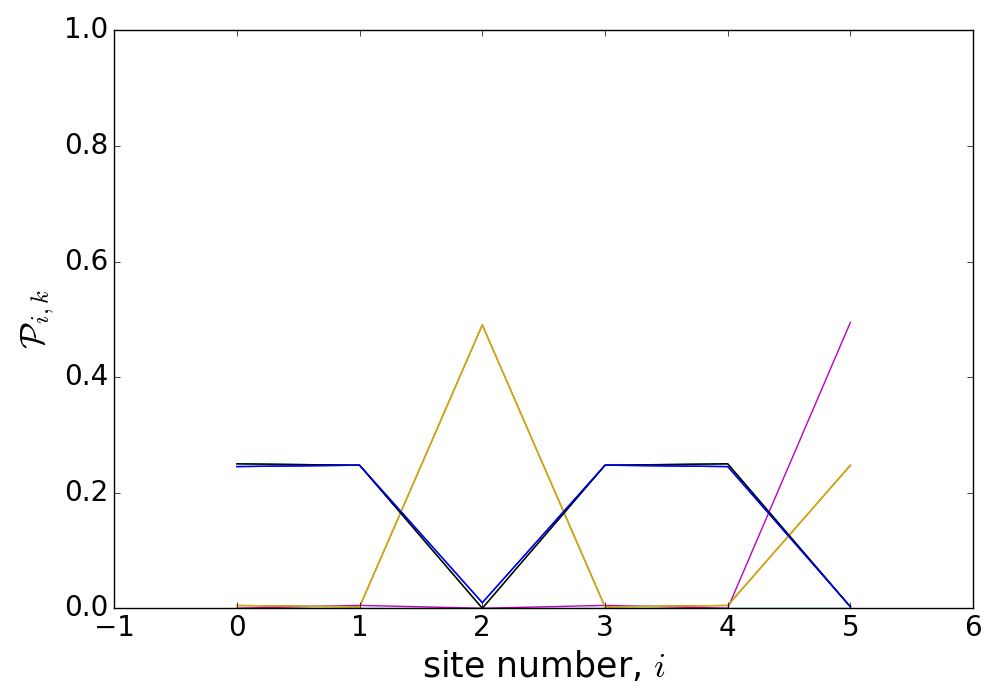
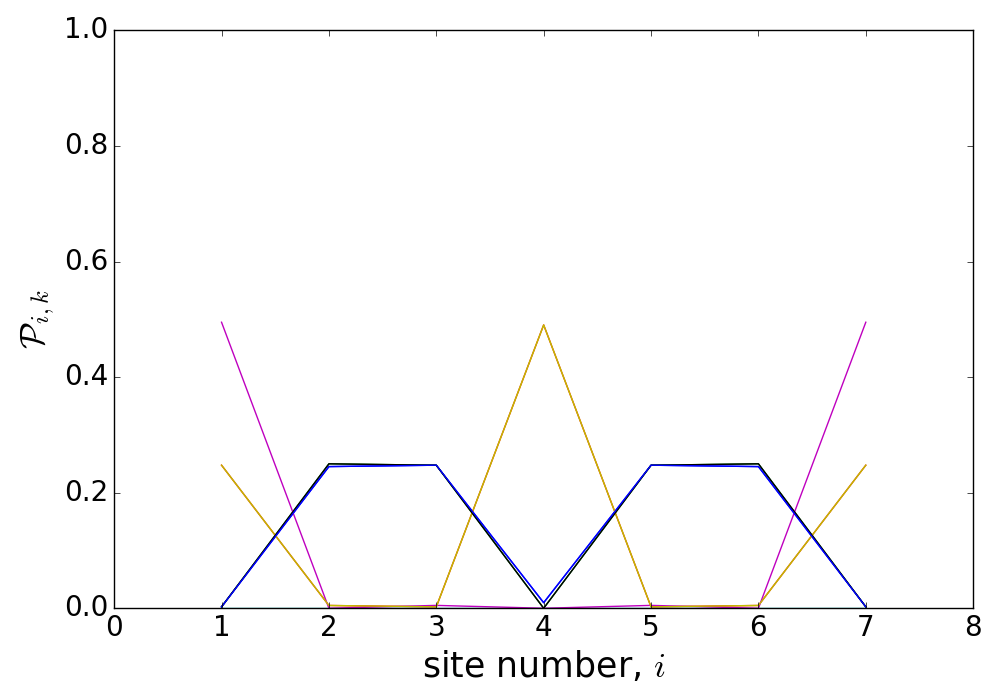
fixed # issue in numpy loadtxt

diff --git a/src/Plotting/probabilities.py b/src/Plotting/probabilities.py
@@ -5,7 +5,7 @@ import numpy as np
 from pylab import *
 
 #READ DATA FROM FILE
-eigen=np.loadtxt('probabilities.data',skiprows=1+2)
+eigen=np.loadtxt('probabilities.data',skiprows=2,comments='#')
 
 #SET SIZE FIGURE
 fig = plt.figure(figsize=(10,7))
@@ -13,7 +13,7 @@ fig = plt.figure(figsize=(10,7))
 ax=plt.subplot()
 
 #SET LIMITS
-ax.set_xlim([-1,len(eigen)])
+ax.set_xlim([0,len(eigen)+1])
 ax.set_ylim([0,1])
 
 #SET LABEL NAMES
@@ -28,7 +28,7 @@ ax.tick_params(axis='y', labelsize=20)
 ax.xaxis.set_major_locator(MaxNLocator(integer=True))
 
 #PLOT
-ax.plot(eigen)
+ax.plot(np.arange(1,len(eigen)+1),eigen)
 
 fig.tight_layout()
 

diff --git a/src/Plotting/eigenvalues.py b/src/Plotting/eigenvalues.py
@@ -11,7 +11,7 @@ import numpy as np
 #i.e. to higlight areas of the spectrum by rescaling it
 
 #LOAD DATA FROM FILE
-data=np.loadtxt('eigenvalues.data')
+data=np.loadtxt('eigenvalues.data',comments='#')
 
 #SET SIZE OF THE FIGURE
 fig = plt.figure(figsize=(20,10))

diff --git a/src/Plotting/dynamics.py b/src/Plotting/dynamics.py
@@ -3,7 +3,7 @@ import numpy as np
 from pylab import *
 
 #READ THE DATA FROM FILE
-fidelity=np.loadtxt('dynamics.data')
+fidelity=np.loadtxt('dynamics.data',comments='#')
 
 #SET SIZE FIGURE
 plt.figure(figsize=(10,7))

diff --git a/src/Plotting/exmap.py b/src/Plotting/exmap.py
@@ -2,7 +2,7 @@ import numpy as np
 from pylab import *
 
 #LOAD DATA FILES
-data = np.loadtxt('exmap.data')
+data = np.loadtxt('exmap.data',comments='#')
 
 #SET SIZE FIGURE
 plt.figure(figsize=(10,7))
